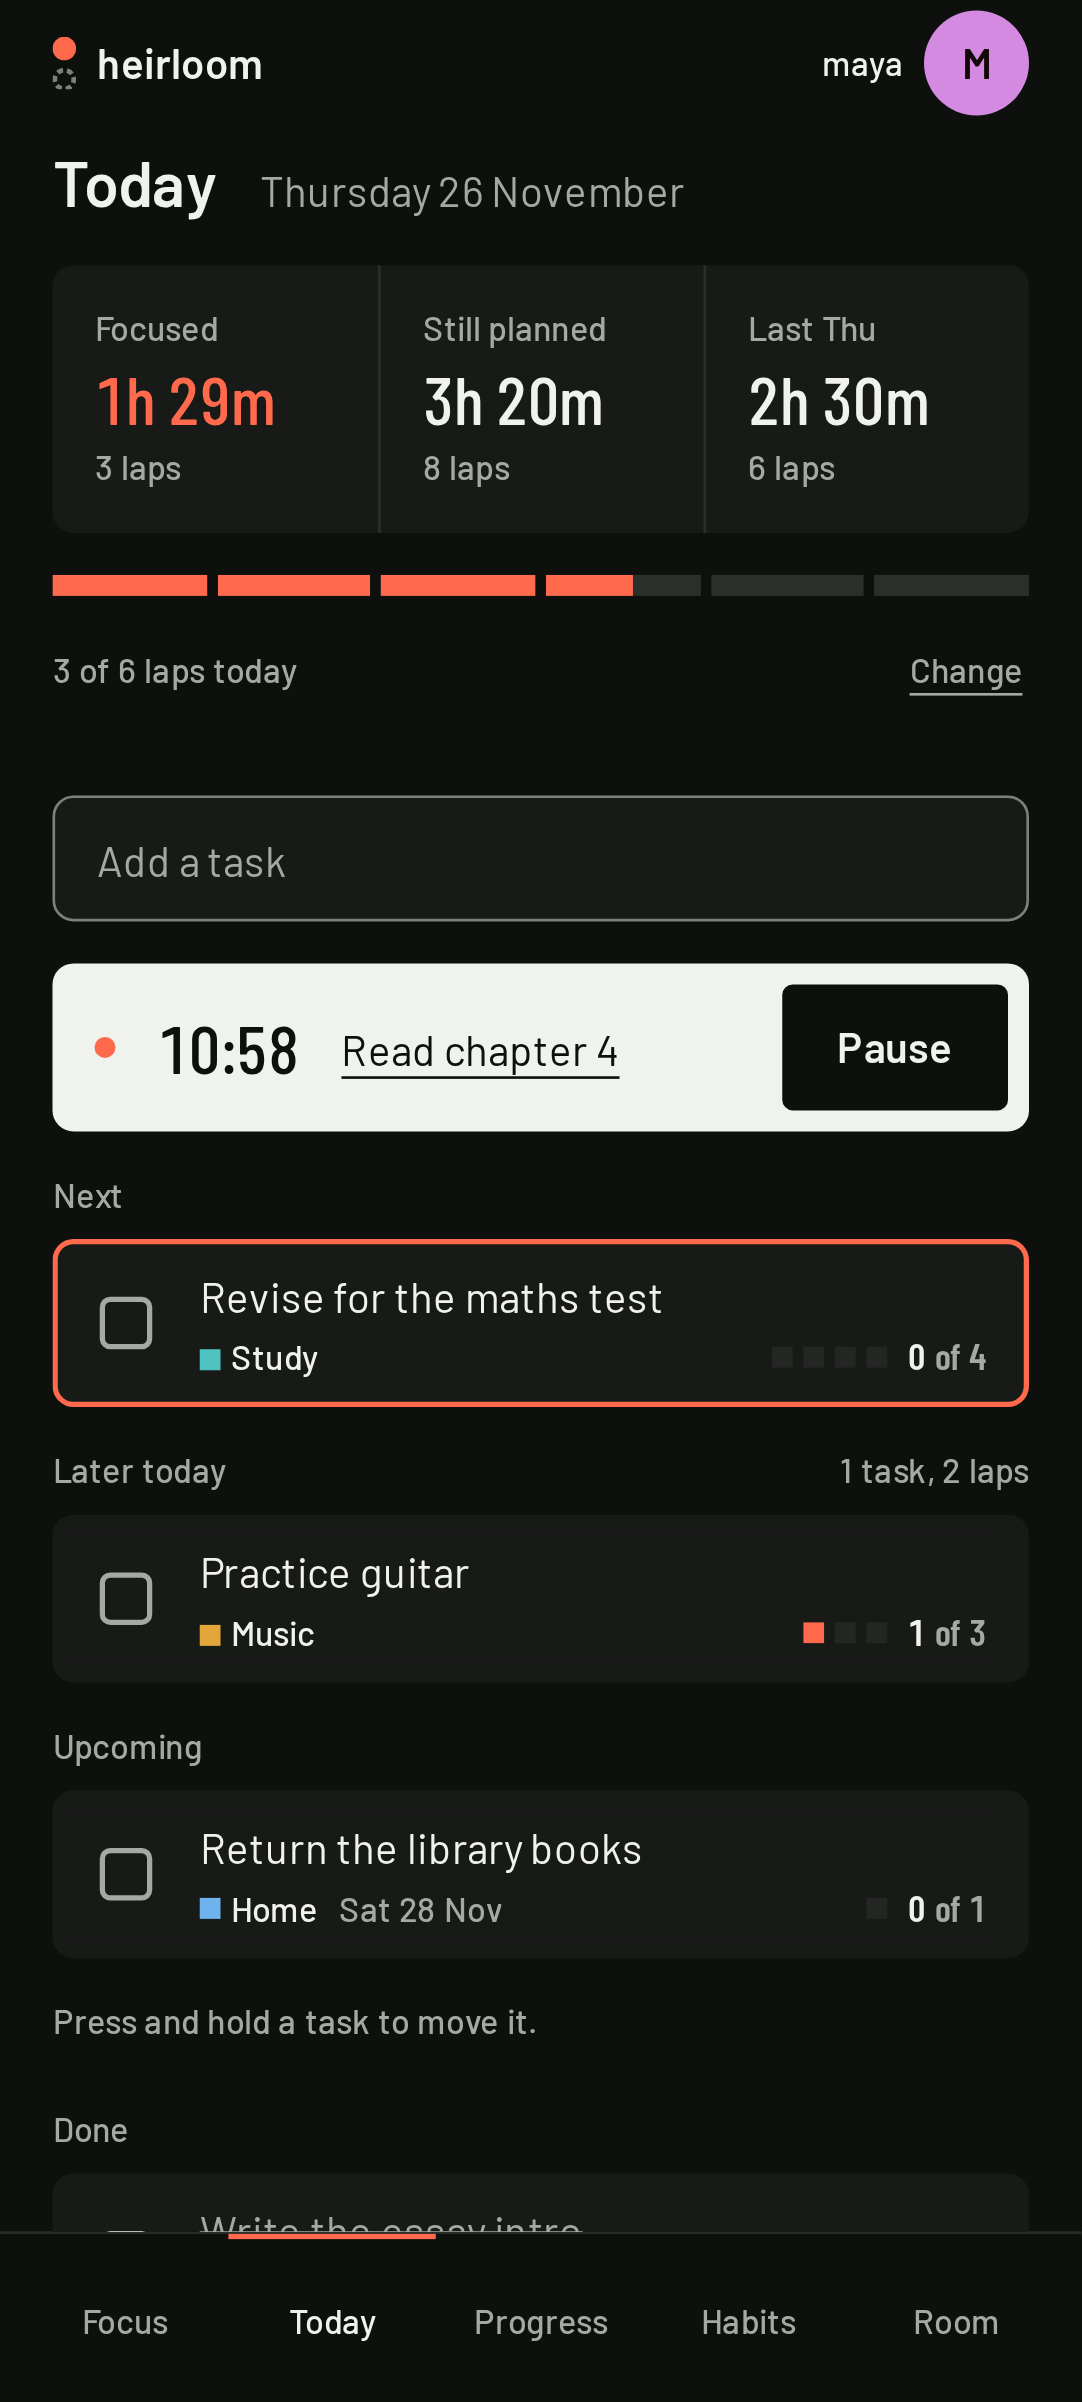
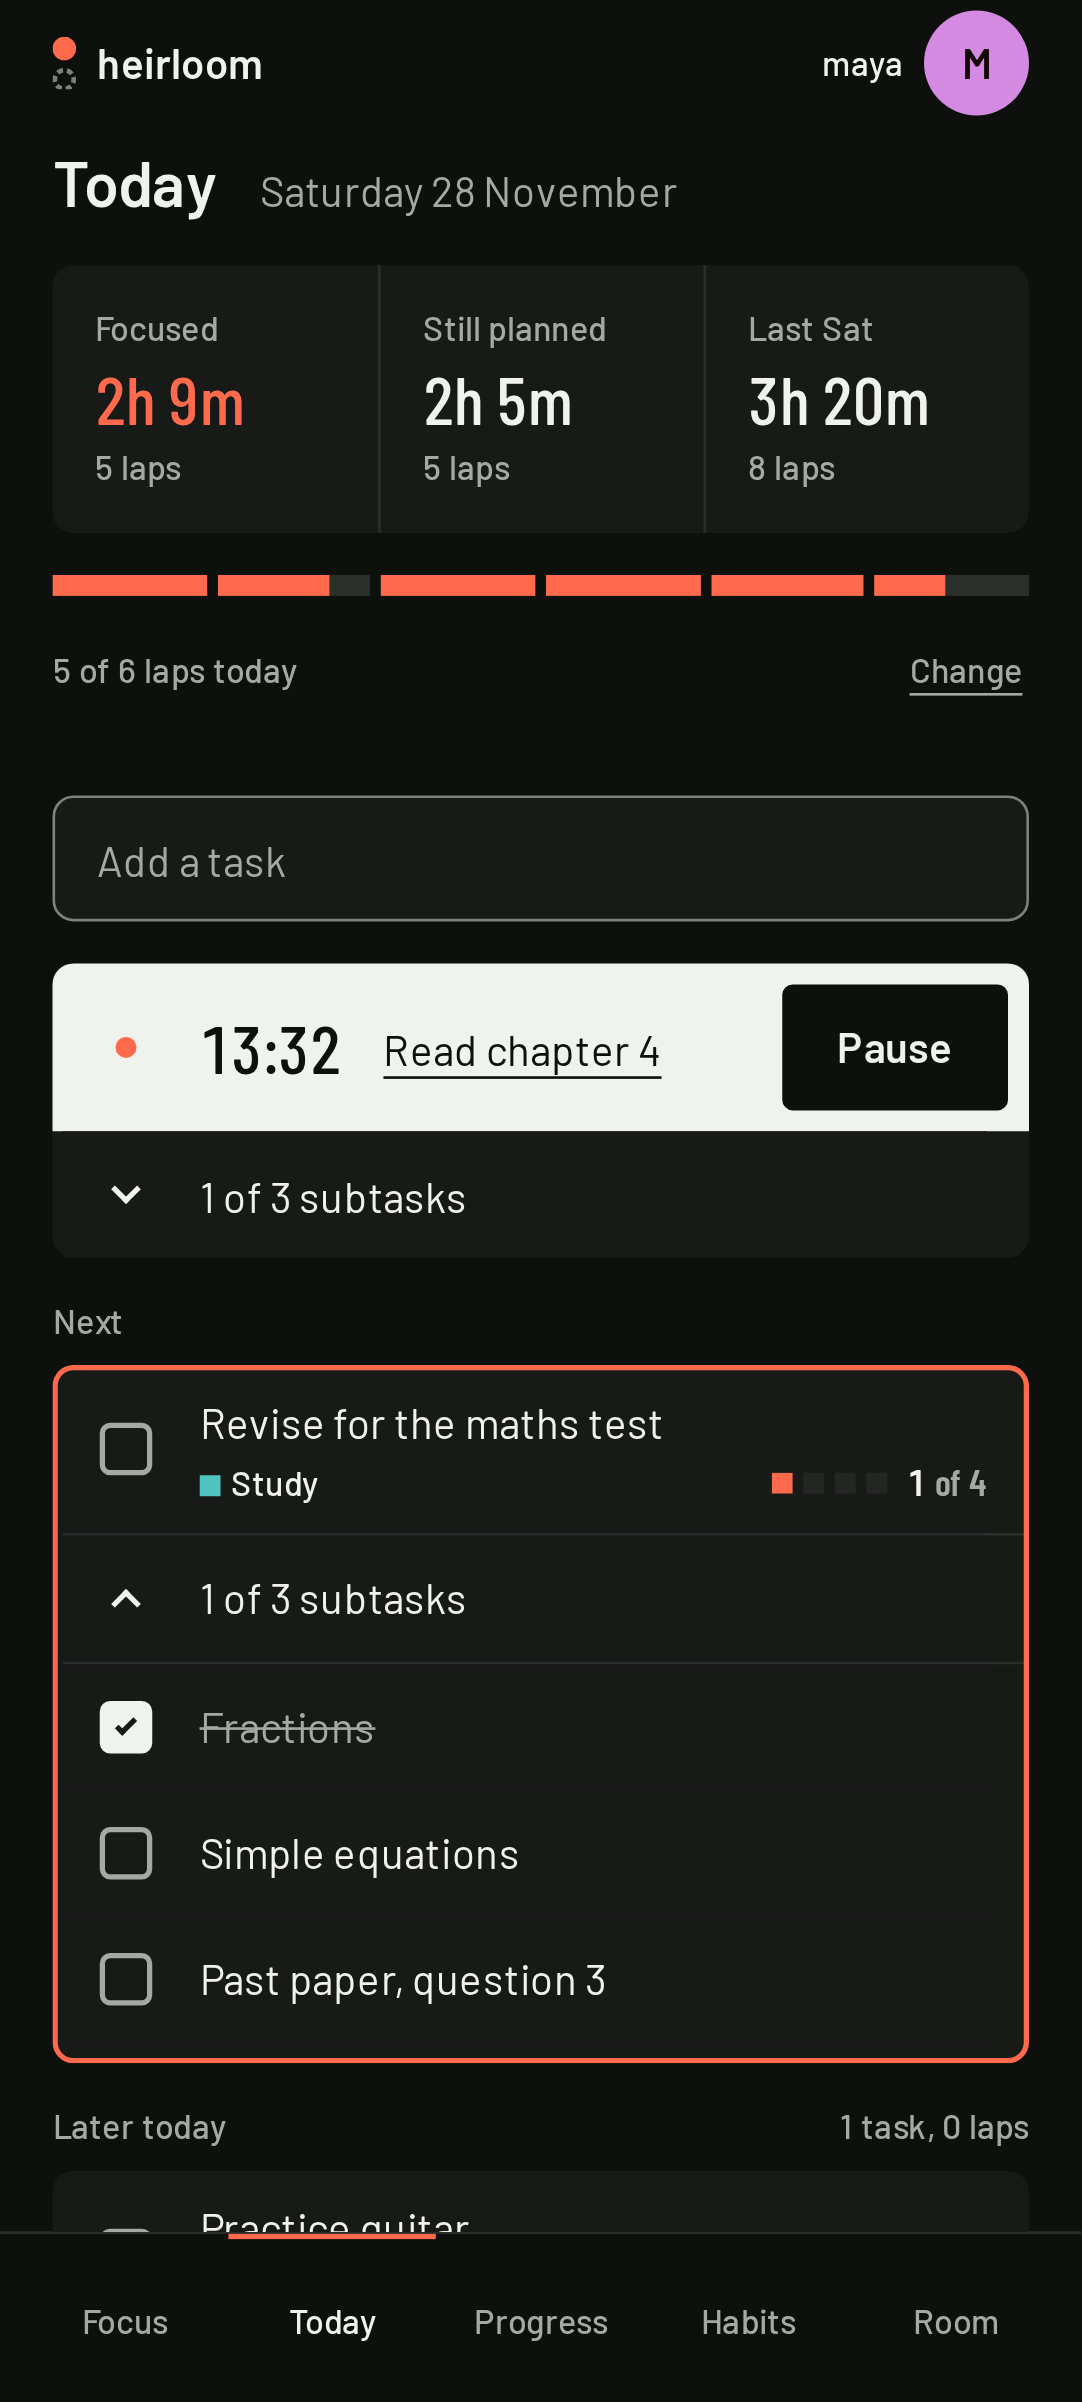
docs: README pictures retaken for v1.0.5: subtasks, habit rounds, the day by task

diff --git a/README.md b/README.md
@@ -30,14 +30,16 @@ No friend with a server? [Run your own](docs/DEPLOY.md): one file for Linux on x
 
 <table>
   <tr>
-    <td width="33%" align="center"><img src="docs/resources/readme/01-focus.png" width="100%"><br>Focus</td>
-    <td width="33%" align="center"><img src="docs/resources/readme/02-today.png" width="100%"><br>Today</td>
-    <td width="33%" align="center"><img src="docs/resources/readme/03-progress.png" width="100%"><br>Progress</td>
+    <td width="25%" align="center"><img src="docs/resources/readme/01-focus.png" width="100%"><br>Focus</td>
+    <td width="25%" align="center"><img src="docs/resources/readme/02-today.png" width="100%"><br>Today, with subtasks</td>
+    <td width="25%" align="center"><img src="docs/resources/readme/03-progress.png" width="100%"><br>Progress</td>
+    <td width="25%" align="center"><img src="docs/resources/readme/03b-progress-day.png" width="100%"><br>A day, task by task</td>
   </tr>
   <tr>
-    <td width="33%" align="center"><img src="docs/resources/readme/04-habits.png" width="100%"><br>Habits</td>
-    <td width="33%" align="center"><img src="docs/resources/readme/05-room.png" width="100%"><br>Room</td>
-    <td width="33%" align="center"><img src="docs/resources/readme/06-welcome.png" width="100%"><br>Welcome</td>
+    <td width="25%" align="center"><img src="docs/resources/readme/04-habits.png" width="100%"><br>Habits, a few times a day</td>
+    <td width="25%" align="center"><img src="docs/resources/readme/05-room.png" width="100%"><br>Room</td>
+    <td width="25%" align="center"><img src="docs/resources/readme/06-welcome.png" width="100%"><br>Welcome</td>
+    <td width="25%"></td>
   </tr>
 </table>
 

diff --git a/AGENTS.md b/AGENTS.md
@@ -145,6 +145,7 @@ adjectives: "4 of 5 pomodoros" beats "great progress". The lead does a copy pass
 | `tools/budget.mjs` | Built JS, CSS, fonts and the server binary against ARCHITECTURE section 7 |
 | `tools/bells.mjs` | Draws the three bells and writes them to `client/public/sounds/` and the phone's `res/raw/` (needs ffmpeg) |
 | `tools/contracts-check.mjs` | Every cell, session and timer state in the fixtures against the schemas |
+| `tools/readme/shoot.ts` | The README's pictures: a seeded throwaway server on 8799, seven phone screens and the hero, into `docs/resources/readme/`. Run after `make server` |
 
 ## Gotchas
 - `npx @google/design.md lint DESIGN.md` must show 0 errors. Its warnings `orphaned-tokens` (UI reads
